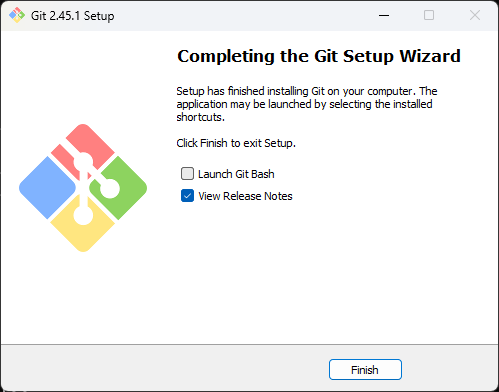
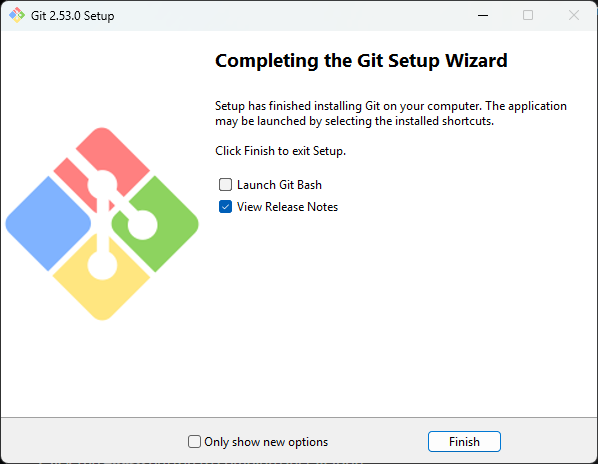
Update git for Windows install guide

diff --git a/content/install-guides/git-woa.md b/content/install-guides/git-woa.md
@@ -1,9 +1,6 @@
 ---
-### Title the install tools article with the name of the tool to be installed
-### Include vendor name where appropriate
 title: Git for Windows on Arm
 
-### Optional additional search terms (one per line) to assist in finding the article
 additional_search_terms:
 - git
 - windows
@@ -11,7 +8,6 @@ additional_search_terms:
 - windows on arm
 - open source windows on arm
 
-### Estimated completion time in minutes (please use integer multiple of 5)
 minutes_to_complete: 10
 
 ### Link to official documentation
@@ -40,7 +36,7 @@ Use a browser to download the desired release file. The Git releases for Windows
 You can also download from a Windows PowerShell with the following command:
 
 ```command
-curl https://github.com/git-for-windows/git/releases/download/v2.47.1.windows.1/Git-2.47.1-arm64.exe -o Git-2.47.1-arm64.exe
+curl https://github.com/git-for-windows/git/releases/download/v2.53.0.windows.1/Git-2.53.0-arm64.exe -o Git-2.53.0-arm64.exe
 ```
 
 Once you have downloaded Git, run the installer `.exe` file on a Windows on Arm machine. 
